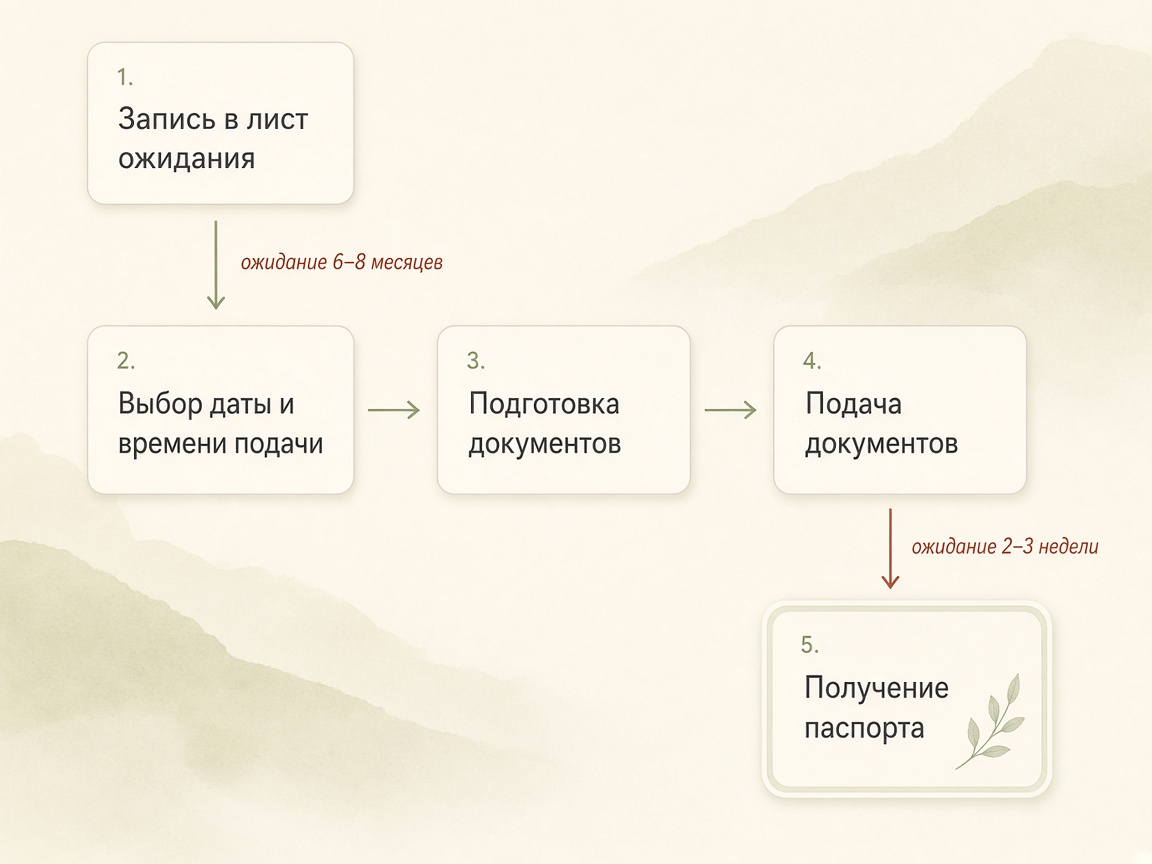
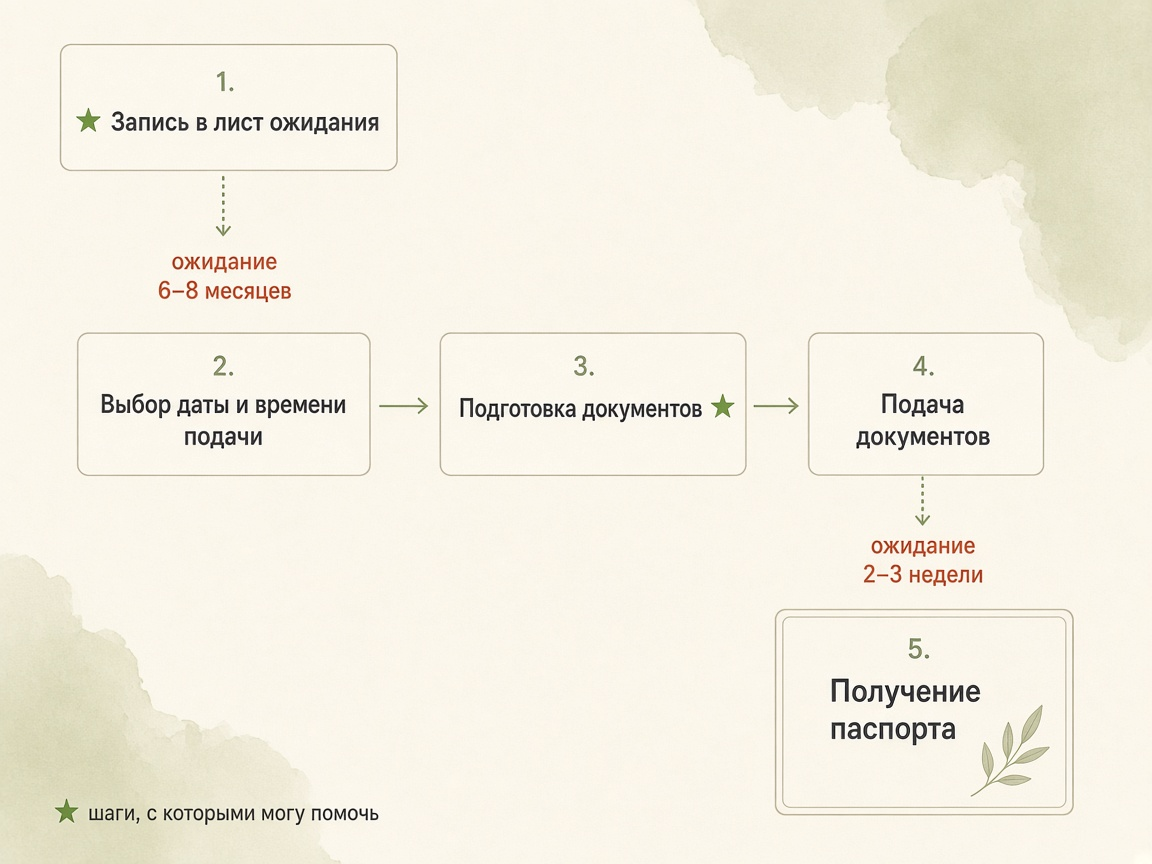
Move help calculator under path; collapse docs and fee tools; star steps 1 and 3.

diff --git a/index.html b/index.html
@@ -21,7 +21,7 @@
     <div class="hero-content">
       <div class="hero-top">
         <p class="brand">Италия · Schengen C</p>
-        <span class="version" title="Версия сайта">v1.5.0</span>
+        <span class="version" title="Версия сайта">v1.6.0</span>
       </div>
       <h1>Шаги к получению визы</h1>
       <p class="lede">Коротко: что делать по туристической визе и сколько это стоит. Без лишнего шума.</p>
@@ -40,18 +40,22 @@
       <figure class="path-figure">
         <img
           src="assets/visa-path-diagram.png"
-          alt="Схема: 1 запись в лист ожидания, ожидание 6–8 месяцев, затем выбор даты, подготовка и подача документов, ожидание 2–3 недели, получение паспорта"
+          alt="Схема пути: запись, ожидание 6–8 месяцев, выбор даты, подготовка и подача документов, ожидание 2–3 недели, получение паспорта. Зелёные звёздочки — шаги, с которыми могу помочь."
           width="1600"
           height="1200"
           loading="lazy"
         />
       </figure>
 
+      <p class="star-legend" aria-hidden="true">
+        <span class="star">★</span> шаги, с которыми я могу вам помочь
+      </p>
+
       <ol class="path-sr-only">
-        <li>Запись в лист ожидания</li>
+        <li>Запись в лист ожидания (могу помочь)</li>
         <li>Ожидание 6–8 месяцев</li>
         <li>Выбор даты и времени подачи</li>
-        <li>Подготовка документов</li>
+        <li>Подготовка документов (могу помочь)</li>
         <li>Подача документов</li>
         <li>Ожидание 2–3 недели</li>
         <li>Получение паспорта</li>
@@ -62,104 +66,6 @@
         <a href="https://t.me/italyrbdaty" target="_blank" rel="noopener">@italyrbdaty</a>
         собраны методичка, советы и актуальные нюансы. Если удобнее с поддержкой — напишите мне.
       </p>
-    </section>
-
-    <section id="docs" class="section">
-      <h2>Документы под вашу ситуацию</h2>
-      <p class="section-note">Отвечайте по шагам — список справа (на телефоне — ниже) обновляется сразу.</p>
-
-      <div class="quiz-layout">
-        <div class="quiz-panel">
-          <button type="button" class="btn btn-primary" id="quiz-start">Получить список документов для меня</button>
-          <form id="quiz-form" class="quiz-form" hidden>
-            <fieldset data-step="age">
-              <legend>Вам есть 18 лет?</legend>
-              <label><input type="radio" name="adult" value="yes" /> Да, я совершеннолетний</label>
-              <label><input type="radio" name="adult" value="no" /> Нет, мне меньше 18</label>
-            </fieldset>
-
-            <fieldset data-step="minor" hidden>
-              <legend>Как подаётесь?</legend>
-              <label><input type="radio" name="minorMode" value="one" /> С одним родителем</label>
-              <label><input type="radio" name="minorMode" value="both" /> С обоими родителями</label>
-              <label><input type="radio" name="minorMode" value="none" /> Без родителей</label>
-            </fieldset>
-
-            <fieldset data-step="work" hidden>
-              <legend>Ваш статус</legend>
-              <label><input type="radio" name="work" value="employed" /> Работаю в найме</label>
-              <label><input type="radio" name="work" value="ip" /> ИП</label>
-              <label><input type="radio" name="work" value="self" /> Самозанятый</label>
-              <label><input type="radio" name="work" value="unemployed" /> Безработный</label>
-            </fieldset>
-
-            <fieldset data-step="car" hidden>
-              <legend>Есть автомобиль, оформленный на вас?</legend>
-              <label><input type="radio" name="car" value="yes" /> Да</label>
-              <label><input type="radio" name="car" value="no" /> Нет</label>
-            </fieldset>
-
-            <fieldset data-step="italy" hidden>
-              <legend>Были в Италии раньше?</legend>
-              <label><input type="radio" name="italy" value="yes" /> Да</label>
-              <label><input type="radio" name="italy" value="no" /> Нет</label>
-            </fieldset>
-          </form>
-        </div>
-
-        <aside class="doc-live" id="doc-live" aria-live="polite">
-          <h3>Ваш список</h3>
-          <p class="doc-hint" id="doc-hint">Нажмите кнопку слева, чтобы начать. Базовый список появится сразу и будет уточняться.</p>
-          <ol id="doc-list"></ol>
-        </aside>
-      </div>
-    </section>
-
-    <section id="tools" class="section">
-      <h2>Посчитать суммы</h2>
-      <p class="section-note">Сборы и выписка — по официальным ориентирам. В скобках — примерно в BYN, округление вверх.</p>
-
-      <div class="tools-row">
-        <div class="accordions">
-          <div class="accordion">
-            <button type="button" class="accordion-btn" aria-expanded="false" data-acc="fees">
-              Сборы визовые и консульские
-              <span class="chev" aria-hidden="true"></span>
-            </button>
-            <div class="accordion-panel" id="acc-fees" hidden>
-              <div class="calc-grid">
-                <label>Взрослые (12+)
-                  <input type="number" id="fee-adults" min="0" value="1" />
-                </label>
-                <label>Дети (до 12 лет)
-                  <input type="number" id="fee-kids" min="0" value="0" />
-                </label>
-              </div>
-              <p class="calc-note">Для граждан Беларуси. Консульский: 35€ / ребёнок до 12 лет — 0€. Сервис VFS: ~16,80€ с каждого заявителя.</p>
-              <div class="calc-result" id="fee-result"></div>
-            </div>
-          </div>
-
-          <div class="accordion">
-            <button type="button" class="accordion-btn" aria-expanded="false" data-acc="bank">
-              Сумма для выписки
-              <span class="chev" aria-hidden="true"></span>
-            </button>
-            <div class="accordion-panel" id="acc-bank" hidden>
-              <div class="calc-grid">
-                <label>Дней в Италии
-                  <input type="number" id="bank-days" min="1" value="7" />
-                </label>
-                <label>Человек в поездке
-                  <input type="number" id="bank-people" min="1" value="1" />
-                </label>
-              </div>
-              <p class="calc-note">По итальянской таблице средств на пребывание. Это минимум для обоснования; на практике часто держат запас.</p>
-              <div class="calc-result" id="bank-result"></div>
-            </div>
-          </div>
-        </div>
-      </div>
     </section>
 
     <section id="help" class="section section-help">
@@ -188,6 +94,106 @@
         <div class="calc-result" id="help-result"></div>
 
         <a class="btn btn-primary btn-wide" href="https://t.me/LLlBiDKiCLLb" target="_blank" rel="noopener">Написать @LLlBiDKiCLLb</a>
+      </div>
+    </section>
+
+    <section id="more" class="section">
+      <h2>Ещё полезное</h2>
+      <p class="section-note">Откройте нужный блок — по умолчанию всё закрыто.</p>
+
+      <div class="accordions stacked">
+        <div class="accordion">
+          <button type="button" class="accordion-btn" aria-expanded="false" data-acc="docs">
+            Полный список документов
+            <span class="chev" aria-hidden="true"></span>
+          </button>
+          <div class="accordion-panel" id="acc-docs" hidden>
+            <p class="calc-note">Отвечайте по шагам — список обновляется сразу.</p>
+            <div class="quiz-layout">
+              <div class="quiz-panel nested">
+                <button type="button" class="btn btn-primary" id="quiz-start">Получить список документов для меня</button>
+                <form id="quiz-form" class="quiz-form" hidden>
+                  <fieldset data-step="age">
+                    <legend>Вам есть 18 лет?</legend>
+                    <label><input type="radio" name="adult" value="yes" /> Да, я совершеннолетний</label>
+                    <label><input type="radio" name="adult" value="no" /> Нет, мне меньше 18</label>
+                  </fieldset>
+
+                  <fieldset data-step="minor" hidden>
+                    <legend>Как подаётесь?</legend>
+                    <label><input type="radio" name="minorMode" value="one" /> С одним родителем</label>
+                    <label><input type="radio" name="minorMode" value="both" /> С обоими родителями</label>
+                    <label><input type="radio" name="minorMode" value="none" /> Без родителей</label>
+                  </fieldset>
+
+                  <fieldset data-step="work" hidden>
+                    <legend>Ваш статус</legend>
+                    <label><input type="radio" name="work" value="employed" /> Работаю в найме</label>
+                    <label><input type="radio" name="work" value="ip" /> ИП</label>
+                    <label><input type="radio" name="work" value="self" /> Самозанятый</label>
+                    <label><input type="radio" name="work" value="unemployed" /> Безработный</label>
+                  </fieldset>
+
+                  <fieldset data-step="car" hidden>
+                    <legend>Есть автомобиль, оформленный на вас?</legend>
+                    <label><input type="radio" name="car" value="yes" /> Да</label>
+                    <label><input type="radio" name="car" value="no" /> Нет</label>
+                  </fieldset>
+
+                  <fieldset data-step="italy" hidden>
+                    <legend>Были в Италии раньше?</legend>
+                    <label><input type="radio" name="italy" value="yes" /> Да</label>
+                    <label><input type="radio" name="italy" value="no" /> Нет</label>
+                  </fieldset>
+                </form>
+              </div>
+
+              <aside class="doc-live nested" id="doc-live" aria-live="polite">
+                <h3>Ваш список</h3>
+                <p class="doc-hint" id="doc-hint">Нажмите кнопку, чтобы начать. Базовый список появится сразу и будет уточняться.</p>
+                <ol id="doc-list"></ol>
+              </aside>
+            </div>
+          </div>
+        </div>
+
+        <div class="accordion">
+          <button type="button" class="accordion-btn" aria-expanded="false" data-acc="fees">
+            Посчитать сумму визовых и консульских сборов
+            <span class="chev" aria-hidden="true"></span>
+          </button>
+          <div class="accordion-panel" id="acc-fees" hidden>
+            <div class="calc-grid">
+              <label>Взрослые (12+)
+                <input type="number" id="fee-adults" min="0" value="1" />
+              </label>
+              <label>Дети (до 12 лет)
+                <input type="number" id="fee-kids" min="0" value="0" />
+              </label>
+            </div>
+            <p class="calc-note">Для граждан Беларуси. Консульский: 35€ / ребёнок до 12 лет — 0€. Сервис VFS: ~16,80€ с каждого заявителя. В скобках — примерно в BYN, округление вверх.</p>
+            <div class="calc-result" id="fee-result"></div>
+          </div>
+        </div>
+
+        <div class="accordion">
+          <button type="button" class="accordion-btn" aria-expanded="false" data-acc="bank">
+            Посчитать сумму для выписки
+            <span class="chev" aria-hidden="true"></span>
+          </button>
+          <div class="accordion-panel" id="acc-bank" hidden>
+            <div class="calc-grid">
+              <label>Дней в Италии
+                <input type="number" id="bank-days" min="1" value="7" />
+              </label>
+              <label>Человек в поездке
+                <input type="number" id="bank-people" min="1" value="1" />
+              </label>
+            </div>
+            <p class="calc-note">По итальянской таблице средств на пребывание. Это минимум для обоснования; на практике часто держат запас. В скобках — примерно в BYN, округление вверх.</p>
+            <div class="calc-result" id="bank-result"></div>
+          </div>
+        </div>
       </div>
     </section>
   </main>

diff --git a/styles.css b/styles.css
@@ -267,10 +267,6 @@ main {
     display: contents;
   }
 
-  .section-help .help-calc {
-    max-width: 560px;
-  }
-
   .footer {
     width: min(1120px, 100%);
     margin: 0 auto;
@@ -317,6 +313,22 @@ main {
   clip: rect(0, 0, 0, 0);
   white-space: nowrap;
   border: 0;
+}
+
+.star-legend {
+  display: flex;
+  align-items: center;
+  gap: 0.45rem;
+  margin: 0.85rem 0 0;
+  color: var(--ink-soft);
+  font-size: 0.95rem;
+  font-weight: 600;
+}
+
+.star-legend .star {
+  color: var(--green);
+  font-size: 1.15rem;
+  line-height: 1;
 }
 
 .diy {
@@ -421,6 +433,24 @@ main {
 .accordions {
   display: grid;
   gap: 0.85rem;
+}
+
+.accordions.stacked {
+  max-width: 920px;
+}
+
+.quiz-panel.nested,
+.doc-live.nested {
+  box-shadow: none;
+  background: rgba(255, 253, 249, 0.55);
+}
+
+.section-help {
+  margin-top: 2.5rem;
+}
+
+.section-help .help-calc {
+  max-width: 560px;
 }
 
 .accordion-btn {
